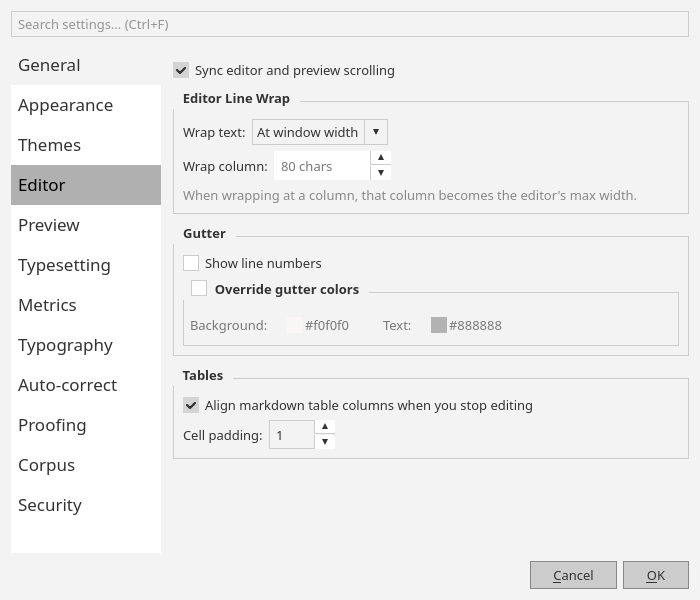
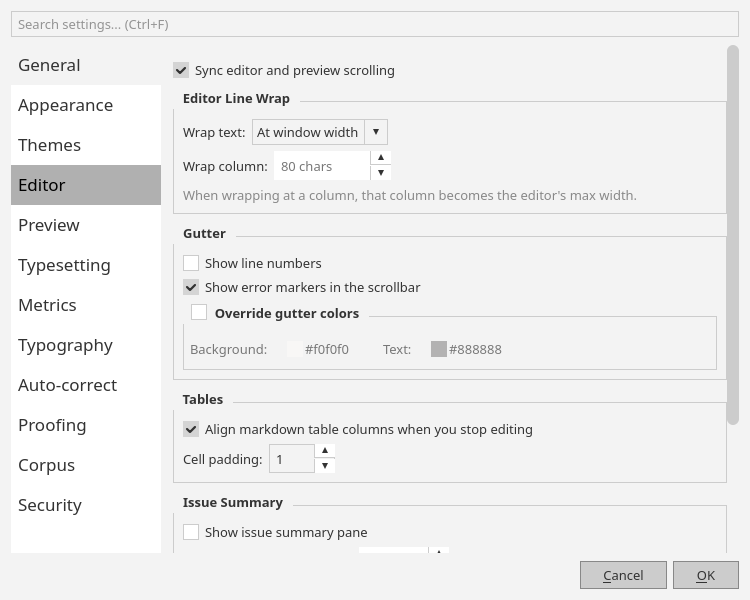
docs: document Issue Summary pane behaviour and refresh screenshots

diff --git a/docs/gotchas.md b/docs/gotchas.md
@@ -930,4 +930,20 @@ colors as the editor's underlines).
   (`QScrollBar:vertical` rules in `CssUtils::buildQss`); only the marker colors
   come from the underline-color settings.
 
+## Issue Summary pane
+
+- The pane's counts come from `SpellHighlighter::counts()` — the same live
+  per-block caches the in-editor underlines are painted from, so the two can
+  never drift. Grammar counts lag the debounced async lint; they land when
+  `onLintFinished()` emits `spellHitsChanged()` (this emission is also what
+  repaints the editor's underline overlay for grammar).
+- A row appears only when its category is selected in the Issue Summary prefs
+  AND the corresponding in-editor check is enabled. This is deliberate: the
+  pane reports exactly what the editor underlines, no more.
+- The pane is shown for `.md` files only (suffix check in
+  `Editor::isMarkdownFile()`); untitled tabs, corpus-embedded docs and
+  generated report/TOC tabs never show it. Dismissing it (`[x]` or timeout)
+  keeps it hidden for that file until the next explicit trigger — tab switch,
+  file open, or a preference re-apply — NOT on every keystroke.
+
 
